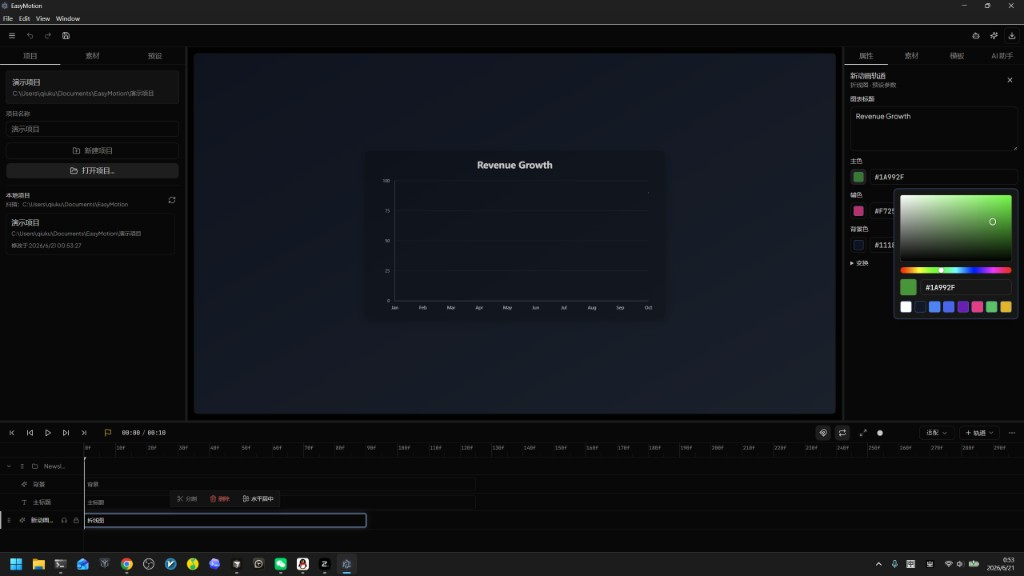
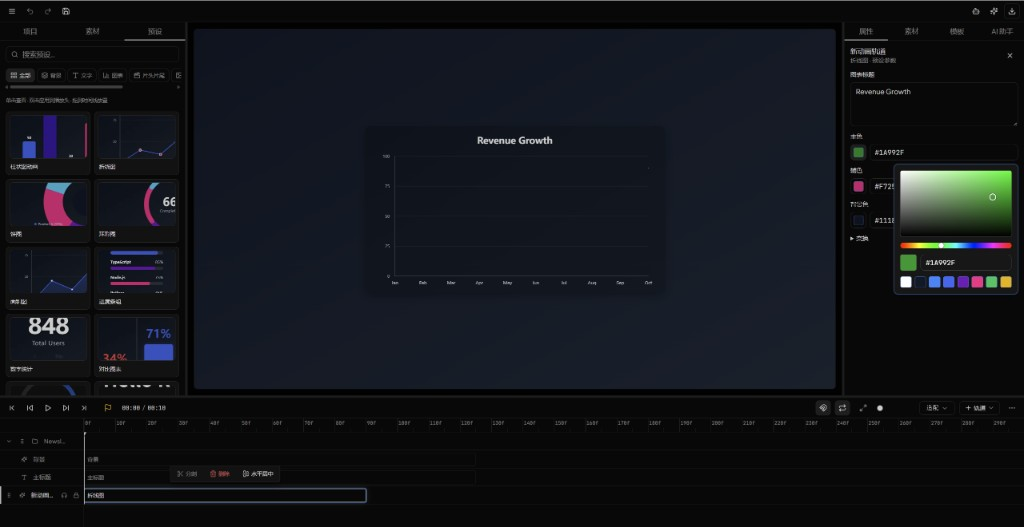
docs: update README screenshot with preset library view

diff --git a/README.md b/README.md
@@ -3,7 +3,7 @@
 > 更新：2026-06-20  
 > 用自然语言制作 Remotion 动画的桌面应用（Electron + React + Python）
 
-![EasyMotion 主界面：折线图预设、属性参数编辑、取色器与时间线](docs/images/app-screenshot.png)
+![EasyMotion 主界面：预设库、折线图预览、参数取色器与时间线编辑](docs/images/app-screenshot.png)
 
 Monorepo（`apps/*` + `packages/*`），当前可运行范围：
 